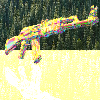
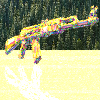
voxel + frid

diff --git a/src/Acc/Voxel.java b/src/Acc/Voxel.java
@@ -1,0 +1,99 @@
+package Acc;
+import java.util.LinkedList;
+import java.util.List;
+
+import geometries.*;
+import geometries.Intersectable.GeoPoint;
+import primitives.Point;
+import primitives.Ray;
+import primitives.Util;
+public class Voxel {
+    List<Voxelable> objects = null ;
+    final Point vMin ; 
+    final Point vMax;
+    public Voxel (Point vMin , Point vMax ){
+        this.vMin = vMin ; 
+        this.vMax = vMax ; 
+
+    }
+  
+    public boolean collision(Ray ray){
+        double tmin = Util.alignZero((vMin.getX() - ray.getP0().getX()) / ray.getDir().getX()); 
+        double tmax =Util.alignZero( (vMax.getX() - ray.getP0().getX()) / ray.getDir().getX()); 
+        if (tmin > tmax){
+            double tmp = tmin ; 
+            tmin = tmax ; 
+            tmax = tmp ; 
+        }
+        double  tymin = Util.alignZero((vMin.getY() - ray.getP0().getY()) / ray.getDir().getY()); 
+        double  tymax = Util.alignZero((vMax.getY() - ray.getP0().getY()) / ray.getDir().getY()); 
+     
+        if (tymin > tymax){
+            double tmp = tymin ; 
+            tymin = tymax ; 
+            tymax = tmp ; 
+        }
+     
+        if ((tmin > tymax) || (tymin > tmax)) 
+            return false; 
+     
+        if (tymin > tmin) 
+            tmin = tymin; 
+     
+        if (tymax < tmax) 
+            tmax = tymax; 
+     
+        double  tzmin = Util.alignZero((vMin.getZ() - ray.getP0().getZ()) / ray.getDir().getZ()); 
+        double  tzmax = Util.alignZero((vMax.getZ() - ray.getP0().getZ()) / ray.getDir().getZ()); 
+     
+        if (tzmin > tzmax) {
+        double tmp = tzmin ; 
+        tzmin = tzmax ; 
+        tzmax = tmp ; 
+    }
+     
+        if ((tmin > tzmax) || (tzmin > tmax)) 
+            return false; 
+     
+        if (tzmin > tmin) 
+            tmin = tzmin; 
+     
+        if (tzmax < tmax) 
+            tmax = tzmax; 
+     
+        return true; 
+    }
+
+    public void add(Voxelable ... params){
+        if(objects == null){
+            objects = new LinkedList<>(); 
+        }
+        objects.addAll(List.of(params));
+    }
+   
+    public List<GeoPoint> collisoned(Ray ray){
+        if(objects == null){
+            return null ; 
+        }
+        LinkedList<GeoPoint> points = null   ; 
+        for(Voxelable vox : objects){
+            List<GeoPoint> colls = vox.findGeoIntersections(ray); 
+            if(colls != null){
+                if(points==null){
+                    points = new LinkedList<>(); 
+                }
+                points.addAll(colls);
+            }
+        }
+        return points ; 
+    }
+
+    public Point getvMin(){
+        return this.vMin;
+    }
+
+    public Point getvMax(){
+        return this.vMax ; 
+    }
+
+}

diff --git a/src/geometries/Polygon.java b/src/geometries/Polygon.java
@@ -3,6 +3,8 @@ package geometries;
 import java.util.ArrayList;
 import java.util.List;
 
+import Acc.Voxel;
+import Acc.Voxelable;
 import primitives.*;
 import static primitives.Util.*;
 
@@ -12,7 +14,7 @@ import static primitives.Util.*;
  *
  * @author Dan
  */
-public class Polygon extends Geometry {
+public class Polygon extends Voxelable {
     /**
      * List of polygon's vertices
      */
@@ -125,4 +127,28 @@ public class Polygon extends Geometry {
     }
     return newGeoPoints;
     } 
+    public  MaxMin  getMaxMin(){
+      double minX, minY, minZ, maxX, maxY, maxZ;
+
+      minX = maxX = vertices.get(0).getX();
+      minY = maxY = vertices.get(0).getY();
+      minZ = maxZ = vertices.get(0).getZ();
+  
+      //find the furthest coordinates of the pyramid's vertices
+      for(int i=1; i<vertices.size(); i++)
+      {
+        if(vertices.get(i).getX() > maxX) { maxX = vertices.get(i).getX();}
+        if(vertices.get(i).getY() > maxY) { maxY = vertices.get(i).getY();}
+        if(vertices.get(i).getZ() > maxZ) { maxZ = vertices.get(i).getZ();}
+        if(vertices.get(i).getX() < minX) { minX = vertices.get(i).getX();}
+        if(vertices.get(i).getY() < minY) { minY = vertices.get(i).getY();}
+        if(vertices.get(i).getZ() < minZ) { minZ = vertices.get(i).getZ();}
+      }
+      return new MaxMin(minX , minY , minZ , maxX , maxY ,maxZ);
+    }
+
+
+
+   
+
 }

diff --git a/src/geometries/Sphere.java b/src/geometries/Sphere.java
@@ -3,6 +3,9 @@ package geometries;
 import java.util.Arrays;
 import java.util.LinkedList;
 import java.util.List;
+
+import Acc.Voxel;
+import Acc.Voxelable;
 import primitives.*;
 
 /**
@@ -10,7 +13,7 @@ import primitives.*;
  *
  * @author Idan and Eliyahu
  */
-public class Sphere extends Geometry{
+public class Sphere extends Voxelable{
     Point center;
     double radius;
 
@@ -80,11 +83,8 @@ public class Sphere extends Geometry{
         return center;
     }
 
-
-
-
-
-
-
-
+    public  MaxMin  getMaxMin(){
+        return new MaxMin(getCenter().getX()-radius , getCenter().getY()-radius,getCenter().getZ()-radius ,getCenter().getX()+radius, getCenter().getY()+radius, getCenter().getZ()+radius);
+    }
+   
 }

diff --git a/src/unittests/renderer/TextureTests.java b/src/unittests/renderer/TextureTests.java
@@ -166,7 +166,7 @@ public class TextureTests {
 
 		ImageWriter imageWriter = new ImageWriter("CUBE", 1000, 1000);
 		ObjParser modelObjParser = new ObjParser("/Users/idang/Downloads/cube.obj") ;
-		scene1.geometries.add(modelObjParser.getObjParserModel().scale(50).rotate(i, new Vector(1,1,1)).getRandomColoredTriangles(new Double3(0.5), new Double3(0.5), new Double3(0.3),new Double3(0.9), 300));
+		scene1.geometries.add(modelObjParser.getObjParserModel().scale(50).rotate(25, new Vector(1,1,1)).getRandomColoredTriangles(new Double3(0.5), new Double3(0.5), new Double3(0.3),new Double3(0.9), 300));
 
 		camera1.setWriter(imageWriter) //
 		.setRayTrace(new RayTracerBasic(scene1)) //

diff --git a/src/geometries/Geometries.java b/src/geometries/Geometries.java
@@ -12,11 +12,16 @@ import primitives.*;
  */
 public class Geometries extends Intersectable {
     protected List<Intersectable> items ; 
+
     public Geometries(Intersectable... geometries){
         items =new LinkedList<Intersectable>(List.of(geometries));
     }
     public void add(Intersectable... geometries){
         items.addAll(List.of(geometries));
+    }
+
+    public List<Intersectable> getItems(){
+        return this.items ; 
     }
 
     /**

diff --git a/src/primitives/Vector.java b/src/primitives/Vector.java
@@ -8,6 +8,11 @@ import java.awt.*;
  */
 public class Vector extends Point {
 
+    public static final Vector  X = new Vector(1,0,0);
+    public static final Vector  Y = new Vector(0,1,0);
+    public static final Vector  Z = new Vector(0,0,1);
+
+
     public Vector(Double3 x ) { 
         super(x);
         if (this.xyz.equals(Double3.ZERO))//gets a point

diff --git a/src/geometries/Plane.java b/src/geometries/Plane.java
@@ -3,6 +3,8 @@ package geometries;
 import java.util.Arrays;
 import java.util.LinkedList;
 import java.util.List;
+
+import Acc.Voxelable;
 import primitives.*;
 
 /**
